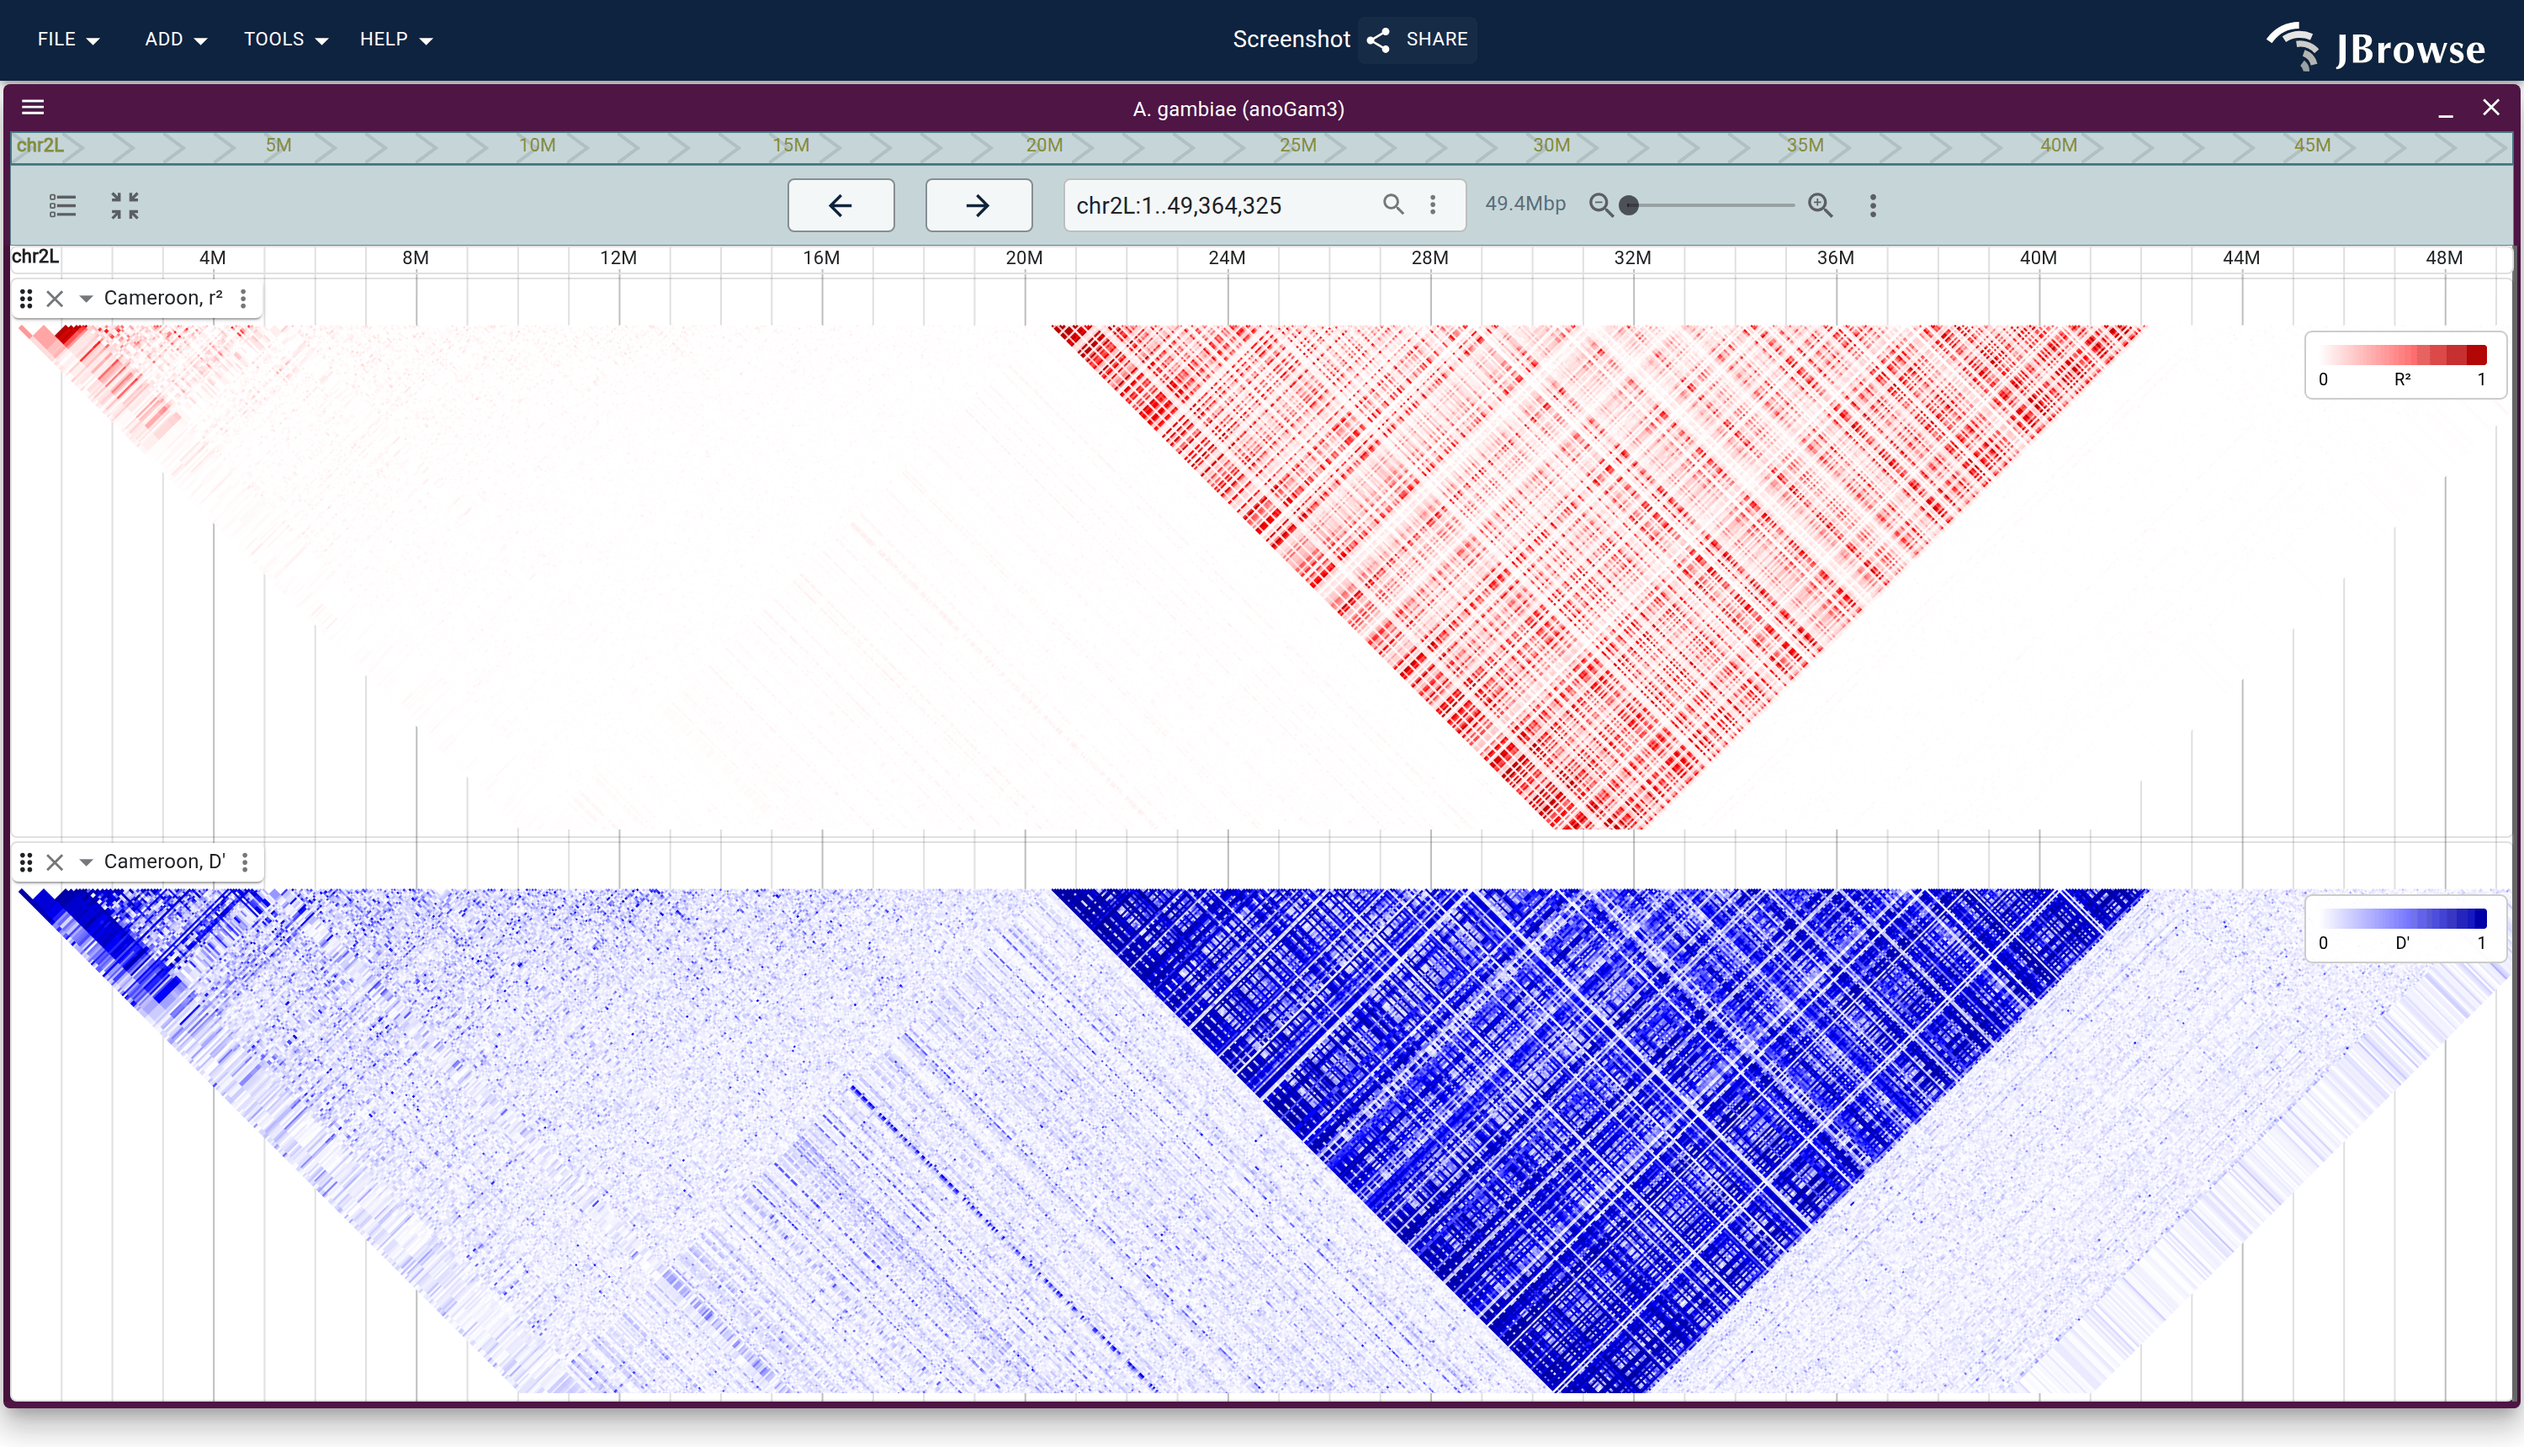
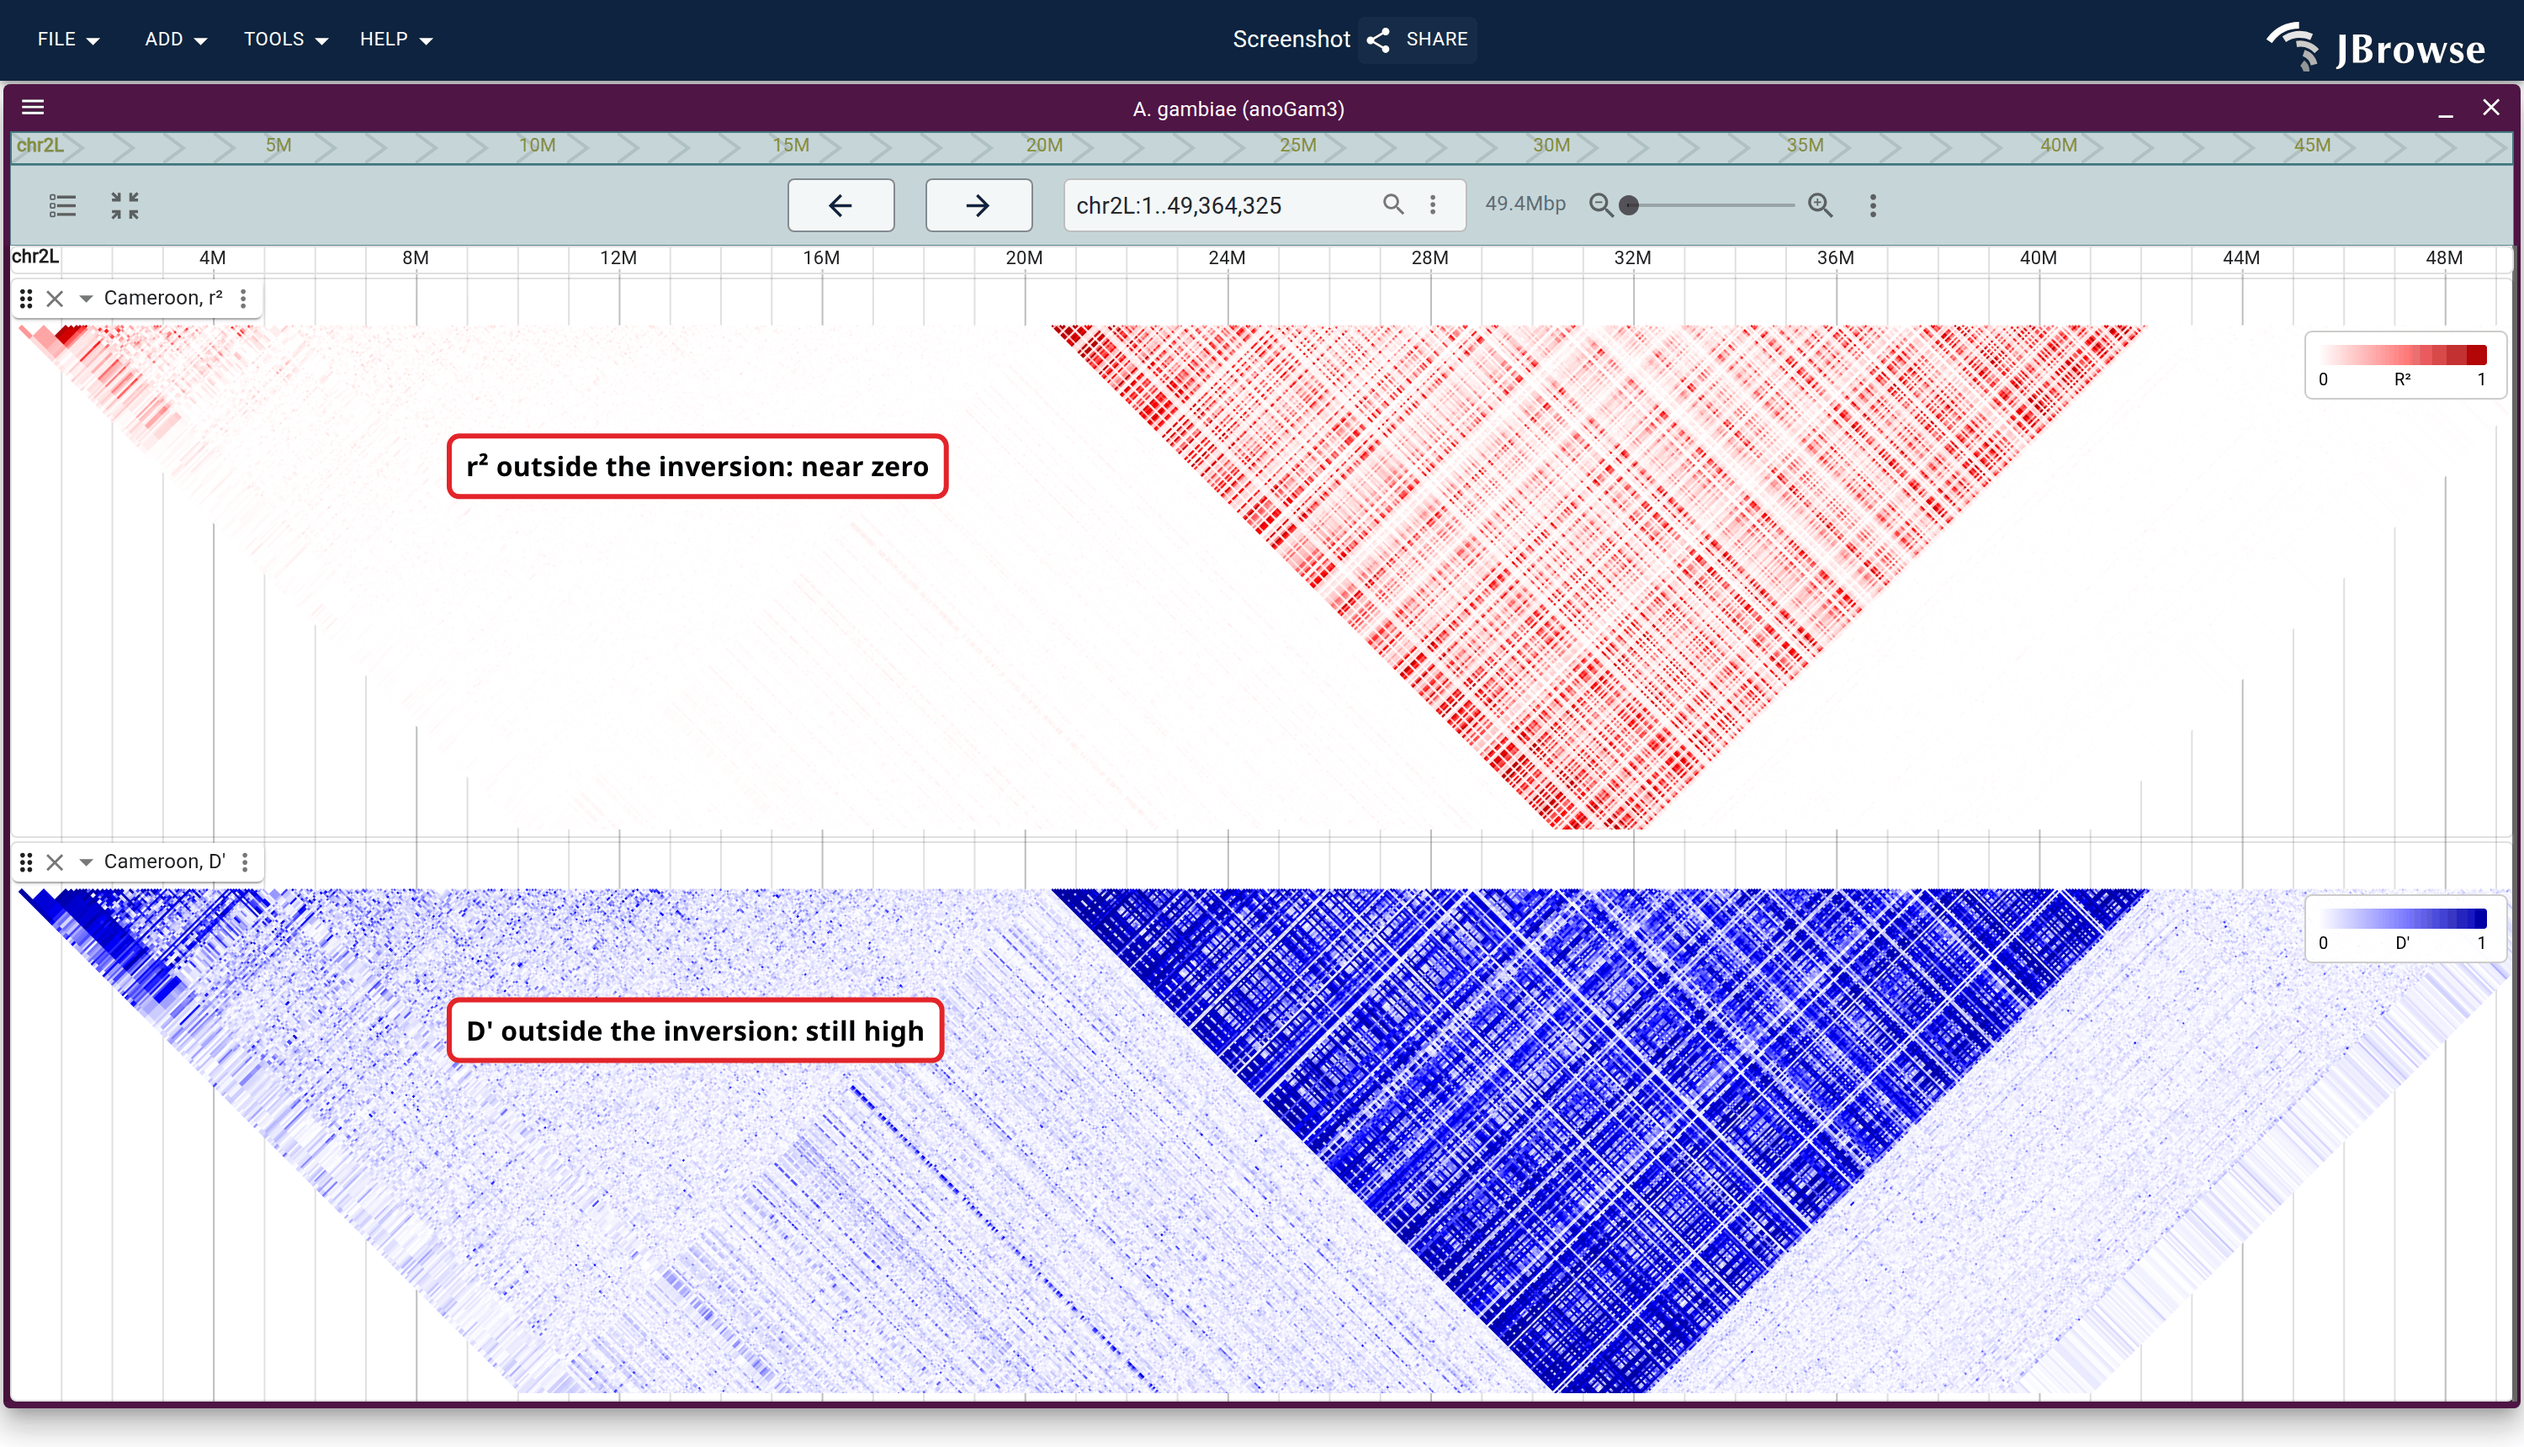
docs(ld): put the r2-vs-D' comparison on the image
The section's claim is about what each metric does OUTSIDE the 2La block, and
outside-the-block is most of the frame rather than a place the eye goes, so the
takeaway lived only in the caption. Two anchored labels now name it in the lane
that shows it: "r2 outside the inversion: near zero" over the near-white left
third of the r2 panel, "D' outside the inversion: still high" over the speckled
same span of the D' panel. Both anchor on a locus, not on pixels.

Changed region(s): [[0.186, 0.2773, 0.372, 0.3698], [0.155, 0.6779, 0.372, 0.7395]]

diff --git a/website/scripts/specs/ld.ts b/website/scripts/specs/ld.ts
@@ -266,6 +266,11 @@ const agKaryotypeTrack = (pop: string, name: string, height: number) => ({
 // not the other is the whole result.
 const TWO_LA_LOCUS = 'chr2L:20,524,058-42,165,532'
 
+// Well outside 2La (which starts at 20.5 Mb) and inside the arm's own left
+// triangle, so a label placed here sits over the part of the frame where r² and
+// D' disagree rather than over empty page.
+const OUTSIDE_TWO_LA = 'chr2L:9,000,000'
+
 // The per-population point, shown rather than asserted, WITHOUT making a figure
 // out of human population differences. Both lanes are the same locus, window,
 // MAF floor and settings; the only difference is which samples went in. Pooled
@@ -581,6 +586,12 @@ export const ldSpecs: ScreenshotSpec[] = [
   // 'dprime' request silently resolved to r² while the legend still said D'.
   // If these two panels ever come out identical again, that is the regression,
   // not a property of the data — D' averages 0.59 inside 2La against r²'s 0.19.
+  //
+  // The two labels are on it because the difference the section is about is
+  // OUTSIDE the block, and outside-the-block is most of the frame rather than a
+  // place the eye goes ("i am still not super convinced this is worth keeping",
+  // review). Both anchor at a locus in the arm's left third, which is outside
+  // 2La in both panels, so they follow the data if the window ever moves.
   {
     mode: 'url',
     name: 'ld/anopheles_r2_vs_dprime',
@@ -628,6 +639,30 @@ export const ldSpecs: ScreenshotSpec[] = [
     // two 300px panels + 2 headers + ruler/overview
     viewportHeight: 860,
     settleMs: 8000,
+    annotations: [
+      {
+        type: 'text',
+        anchor: {
+          track: 'ag1000g_2l_cmgam_r2',
+          locus: OUTSIDE_TWO_LA,
+          fracY: 0.3,
+        },
+        text: 'r² outside the inversion: near zero',
+        fontSize: 16,
+        maxWidth: 340,
+      },
+      {
+        type: 'text',
+        anchor: {
+          track: 'ag1000g_2l_cmgam_dprime',
+          locus: OUTSIDE_TWO_LA,
+          fracY: 0.3,
+        },
+        text: "D' outside the inversion: still high",
+        fontSize: 16,
+        maxWidth: 340,
+      },
+    ],
   },
   {
     mode: 'url',
